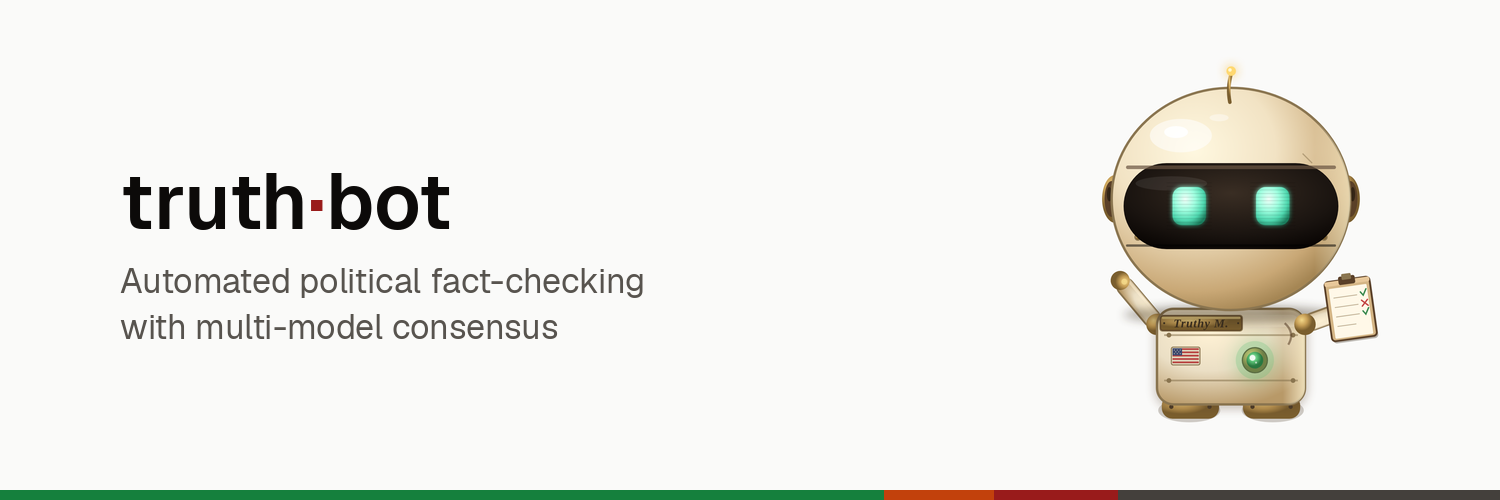
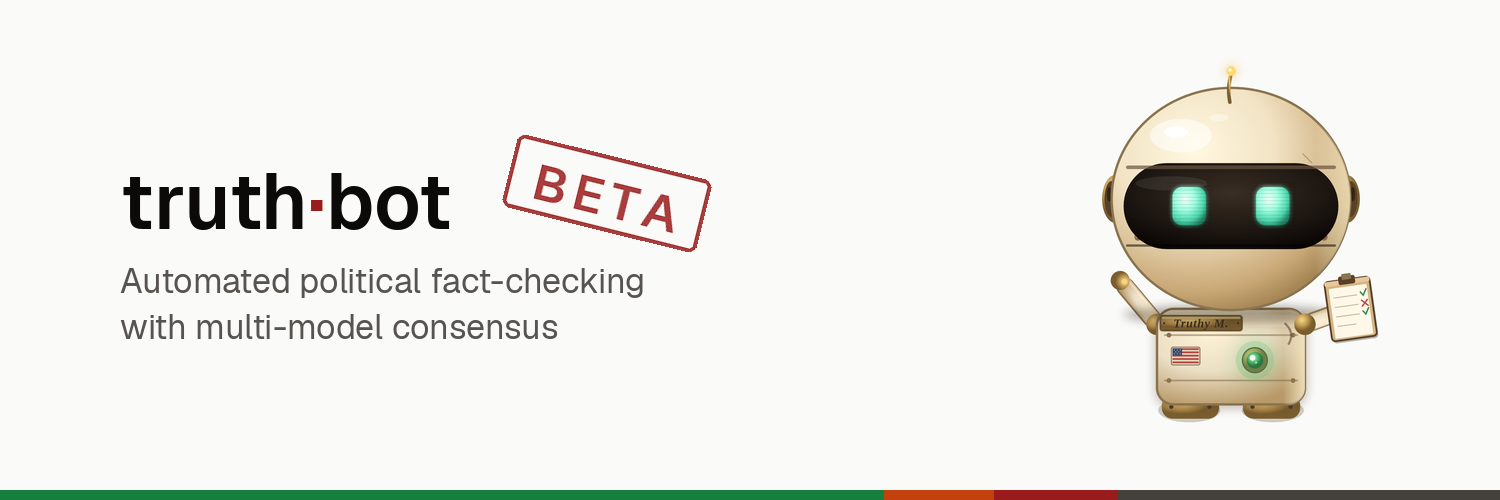
Stamp the profile assets BETA, in the wordmark's red
Owner asked for a rubber stamp; I proposed neutral ink on the grounds that
red means FALSE in the verdict palette and a red BETA could read as a
negative marker. That was wrong, and the counter-evidence was already in
the file I had just written: _chrome() draws the wordmark's middle dot in
VERDICT_RGB["False"], exactly as the site's .wordmark .dot rule does. The
brand already borrows verdict-red for chrome.

The context that makes red mean FALSE is a report page with verdict pills
beside it. A profile banner has none. And red is what makes the mark read
as a STAMP -- the neutral version read as a UI badge.

Banner: beside the wordmark at -14 degrees, clear of Truthy and of the
bottom-left corner where Bluesky overlays the avatar.

Avatar: on the lower jaw rather than the periphery as asked. The head
fills nearly the whole inscribed circle, so a stamp sized for the crescent
between head-edge and crop-edge clipped the circle -- far corner 558
against a 512 radius. On the jaw it measures 461, comfortably inside.
Legible at profile size, a red accent at 96px, gone at 42px: decorative,
not load-bearing, which is the right weight for it.

Changed region(s): [[0.3373, 0.27, 0.46, 0.51], [0.46, 0.36, 0.4907, 0.39], [0.4293, 0.33, 0.46, 0.36]]

diff --git a/src/truthbot/publish/assets/social/README.md b/src/truthbot/publish/assets/social/README.md
@@ -33,6 +33,26 @@ out via `true-neutral-cycle`; the still freezes that frame). The bottom rule is
 the site's own verdict bar at real corpus proportions. The lower-left is kept
 empty on purpose: that is where Bluesky overlays the avatar.
 
+## The BETA stamp
+
+Both carry a rotated BETA stamp in `--v-false` red (#991b1b) at ~215/230 alpha.
+
+Red was argued against first, on the grounds that red means FALSE in the verdict
+palette and a red BETA might read as a negative marker. That objection was
+wrong, for a reason already sitting in this codebase: the wordmark's `·` is
+drawn in that same red, in `report_cards._chrome()` and in the site's
+`.wordmark .dot` rule. The brand already borrows verdict-red for chrome. The
+context that makes red mean FALSE is a report page with verdict pills beside it;
+a profile banner has none. And red is what makes it read as a *stamp* rather
+than a UI chip -- the neutral-ink version looked like a badge.
+
+On the avatar the stamp sits on the lower jaw, not the periphery as originally
+asked: the head fills nearly the whole inscribed circle, and a stamp sized to
+fit the crescent of background between head-edge and crop-edge clipped the
+circle (far corner 558 against a 512 radius). On the jaw its far corner is 461,
+comfortably inside. It is legible at profile size, a red accent at 96px, and
+gone at 42px -- decorative, not load-bearing.
+
 ## Regenerating
 
 There is no script yet — these were produced interactively. If they need to
